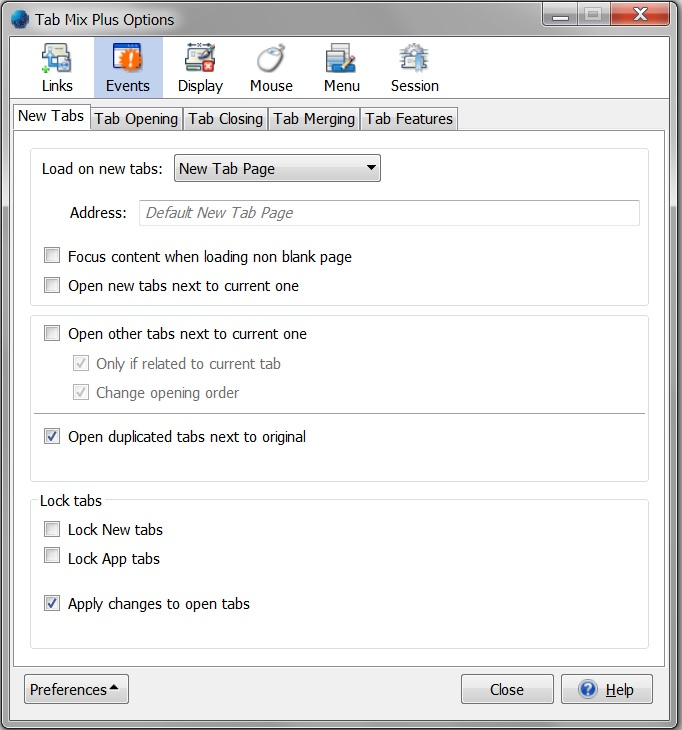
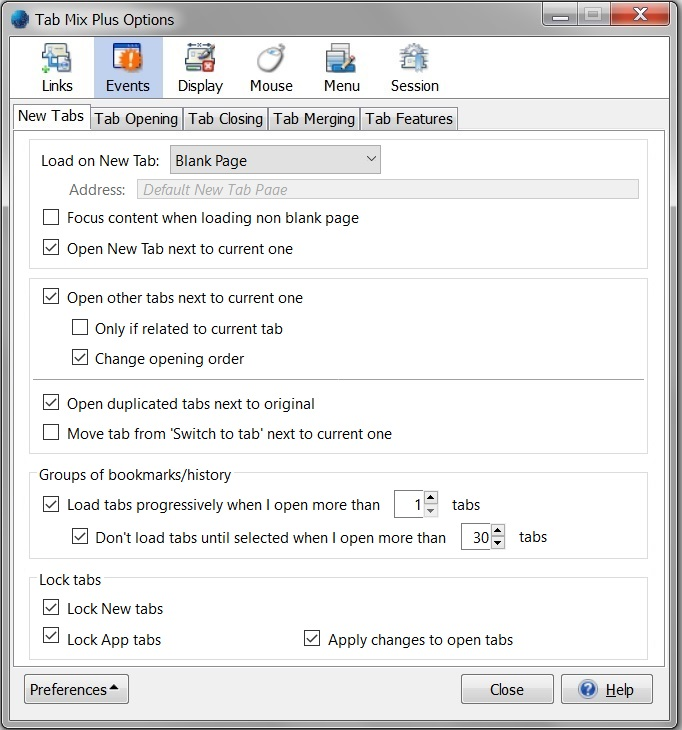
New option to open unloaded bookmarks/history groups

diff --git a/help/data/events-new-tabs.html b/help/data/events-new-tabs.html
@@ -55,6 +55,21 @@
       </ul>
 
       <div class="topic">
+        <u>Groups of bookmarks/history</u>
+        <div class="comment">
+          When opening many tabs from bookmarks group or history loading time for all tabs can be long, especially when multi-process (aka E10s, <a href="https://wiki.mozilla.org/Electrolysis ">Electrolysis</a>) is enabled.<br>
+          It is recommended to enable these options when opening many tabs.
+        </div>
+        <ul>
+          <li>Load tabs progressively - load tabs no more than 3 tabs at a time.</li>
+          <li>Don't load tabs until selected - all background tabs remain unloaded until selected.</li>
+        </ul>
+        <div class="comment">
+          For both options you can set the amount of tabs that serve as a threshold to enable the option.
+        </div>
+      </div>
+
+      <div class="topic">
         <u>Lock tabs</u>
         <ul>
           <li>Lock New tabs</li>
